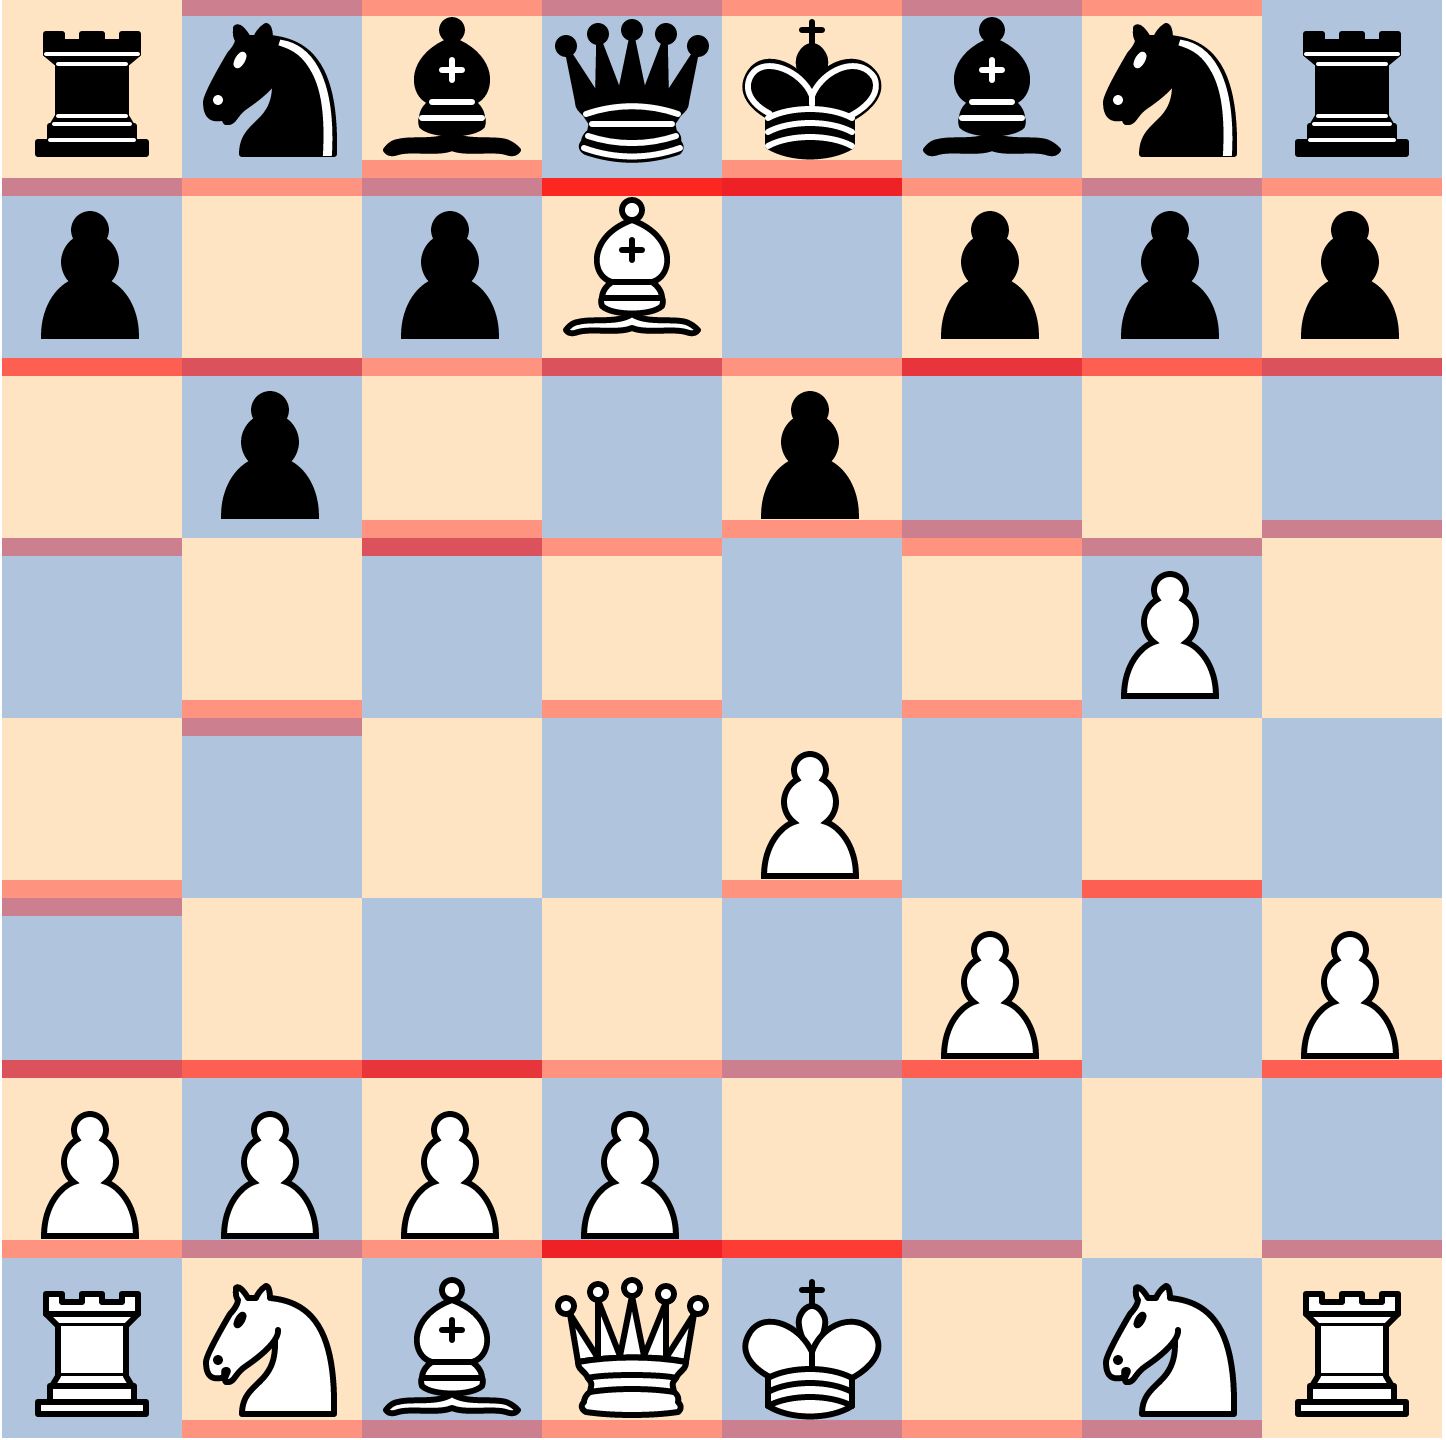
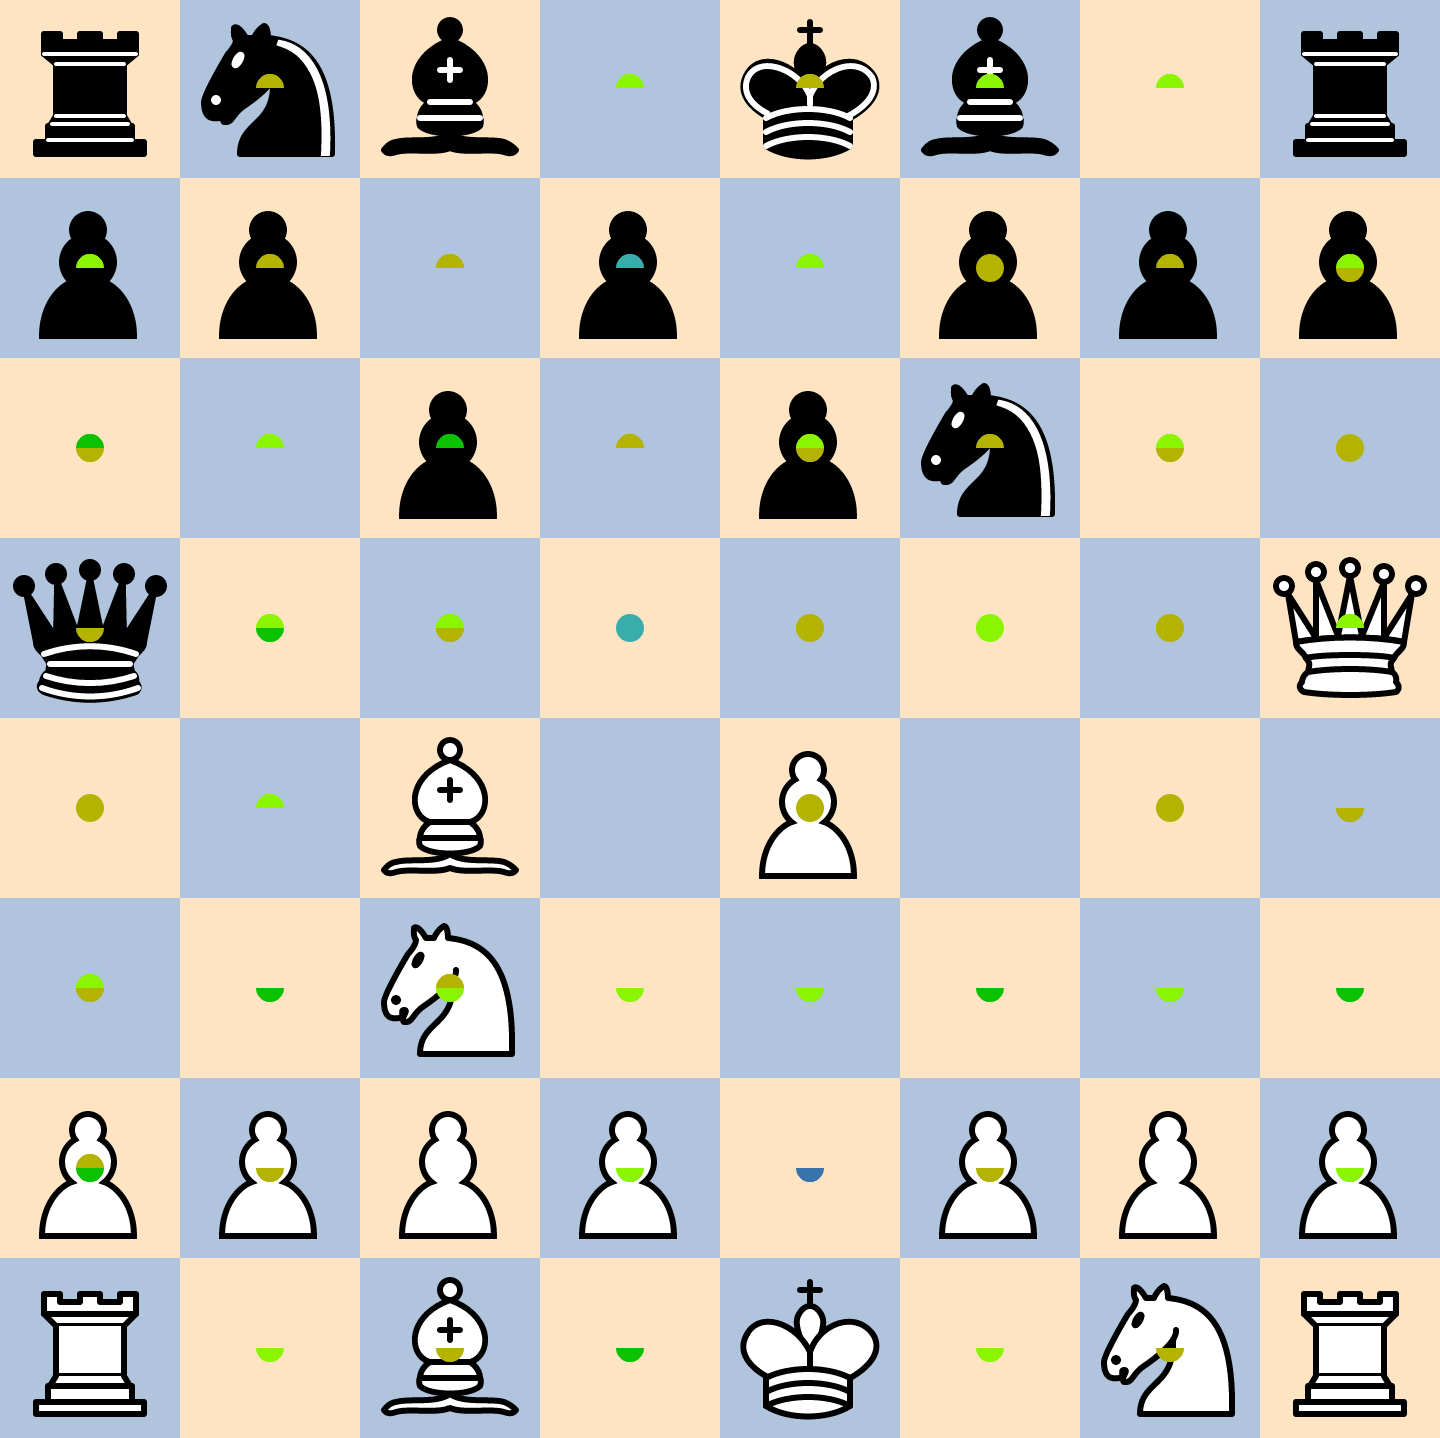
keeping track of attackers in js, not DOM, and modified attacker notation to be a dot in the center of a square

diff --git a/public/js/board.js b/public/js/board.js
@@ -32,49 +32,58 @@ var board = (function() {
       return $(selector);
     };
 
-    that.$attacked_squares = function() {
-      return $(".attacker[data-square=" + this.pgn_code() + "]")
-    }
-
+    var attacking = [];
     // mark all squares attacked by the piece in that square
-    that.mark_attacked_squares = function() {
-      this.$attacked_squares().remove();
-      var my_pgn = this.pgn_code();
+    that.mark_attacking = function() {
+      var now_attacking = (piece && piece.attacks()) || [];
+      var me = this;
+      _(_.difference(now_attacking, attacking)).forEach(function(sq) { sq.add_attacker(me) });
+      _(_.difference(attacking, now_attacking)).forEach(function(sq) { sq.remove_attacker(me) });
+      attacking = now_attacking;
+    };
+
+    // clears a square on the board, removing any pieces and recalculating attacks
+    that.clear = function() {
       if(piece) {
-        _(piece.attacks()).forEach(function(sq) {
-          sq.$get().append('<div class="attacker" ' + 
-                           'data-square="' + my_pgn + '"' +
-                           'data-piece="' + piece.pgn_code() + '"' +
-                           'data-color="' + piece.color() + '"></div>');
+        that.$get().children("img").remove();
+        piece = null;
+
+        that.mark_attacking();
+        
+        // if we're now blocking attacks, mark that
+        _(attackers).forEach(function(a) {
+          a.mark_attacking();
         });
       }
     };
 
-    // recalculate all of the attack squares for everything previously attacking
-    // "that" square
-    var recalculate_attackers = function() {
-      _(that.$get().children(".attacker")).forEach( function($square) {
-        var square_pgn = $($square).data().square;
-        board.get(square_pgn).mark_attacked_squares();
-      });
-    };
-
-    that.clear = function() {
-      if(piece) {
-        this.$get().children("img").remove();
-        piece = null;
-
-        this.$attacked_squares().remove();
-        recalculate_attackers();
-      }
-    };
-
-    // remove a piece from the board, returning it.  Recalculate all the attacks
-    // that were affected by removing the piece as well.
+    // remove a piece from the board, returning it and marking it as held.
+    // Recalculate all the attacks that were affected by removing the piece as
+    // well.
     that.pick_up = function() {
       held_piece = piece; // board global
       this.clear();
       return held_piece;
+    };
+
+    // Place a piece on the board, recalculating all the attacks that affect
+    // that square
+    that.place = function(new_piece) {
+      this.clear();
+      piece = new_piece;
+
+      if (piece) {
+        piece.place(this);
+        this.$get().append("<img src=\"" + piece.image_url() + "\">");
+        this.mark_attacking();
+
+        // if we're now blocking attacks, mark that
+        _(attackers).forEach(function(a) {
+          a.mark_attacking();
+        });
+
+        bind_piece_callbacks.apply(this);
+      }
     };
 
     var bind_piece_callbacks = function() {
@@ -86,7 +95,7 @@ var board = (function() {
         , my_piece = piece
         , my_place = function(sq) {
             $('.square.valid-move').removeClass('valid-move');
-            $('.square').off();
+            $('.square').off('mouseup');
             $(document).off('mousemove');
             $('.board').off('mouseleave');
             $('#held_piece').remove();
@@ -94,18 +103,21 @@ var board = (function() {
             held_piece = null;
         };
 
-      this.$get().children("img").on('mousedown', function(e1) {
+      this.$get().on('mousedown', function(e1) {
+
+        held_piece = my_piece;
         // mark the squares you can move to
-        _(piece.moves()).forEach(function(sq) {
+        _(my_piece.moves()).forEach(function(sq) {
           sq.$get().addClass('valid-move');
         });
 
-        // pick the piece up
-        scope.pick_up.apply(scope);
-        my_board.$get().append('<img id=held_piece src="' + held_piece.image_url() + '" ' + 
+        // pick the piece up and mark it is held
+        scope.pick_up();
+
+        // keep the piece next to the mouse when you move it
+        my_board.$get().append('<img id=held_piece src="' + my_piece.image_url() + '" ' + 
           'style="left:' + e1.pageX + 'px; top:' + e1.pageY + 'px; z-index: 10;">');
 
-        // keep the piece next to the mosue when you move it
         $(document).on('mousemove', function(e) {
           $('#held_piece').css({left: e.pageX, top: e.pageY })
         });
@@ -125,24 +137,54 @@ var board = (function() {
         $('.square:not(.valid-move)').on('mouseup', function() {
           my_place(orig_square);
         });
+
+        // we can no longer lift up this piece on this square...
+        $(this).off('mousedown');
       });
     }
 
-    // Place a piece on the board, recalculating all the attacks that affect
-    // that square
-    that.place = function(new_piece) {
-      this.clear();
-      piece = new_piece;
+    var attackers = {};
+    that.add_attacker = function(square) {
+      attackers[square.pgn_code()] = square;
+      display_attackers();
+    }
 
-      if (piece) {
-        piece.place(this);
-        this.$get().append("<img src=\"" + piece.image_url() + "\">");
-        recalculate_attackers();
-        this.mark_attacked_squares();
+    that.remove_attacker = function(square) {
+      delete attackers[square.pgn_code()];
+      display_attackers();
+    }
 
-        bind_piece_callbacks.apply(this);
-      }
-    };
+    var display_attackers = function() {
+      var colors = [ 'transparent'
+                   , 'hsla(60, 100%,35%,1)'
+                   , 'hsla(86,100%,48%,1)'
+                   , 'hsla(116,100%,38%,1)'
+                   , 'hsla(180,50%,45%,1)'
+                   , 'hsla(210,50%,45%,1)'
+                   , 'hsla(240,50%,45%,1)'
+                   , 'hsla(270,50%,45%,1)'
+                   , 'hsla(300,50%,45%,1)'
+                   , 'hsla(330,50%,45%,1)'
+                   , 'hsla(0,50%,45%,1)' ]
+      var num_dark = 0, num_light = 0;
+      _.forEach(attackers, function (a) {
+        if (a.piece().color() == board.LIGHT) {
+          num_light += 1;
+        }
+        else {
+          num_dark += 1;
+        }
+      });
+
+      var col_light = (num_light >= colors.length) ? _.last(colors) : colors[num_light]
+        , col_dark  = (num_dark >= colors.length)  ? _.last(colors) : colors[num_dark];
+
+      var $attackers = that.$get().children('.attackers')
+      $attackers.css('border-top-color', col_dark);
+      $attackers.css('border-right-color', col_dark);
+      $attackers.css('border-bottom-color', col_light);
+      $attackers.css('border-left-color', col_light);
+    }
 
     return that;
   };

diff --git a/public/css/pieces.css b/public/css/pieces.css
@@ -18,8 +18,8 @@
   font-size: 0;
 }
 .square { 
+  opacity 0.93;
   display: inline-block;
-  z-index -1;
   position: relative;
   height: 12.5%;
   width: 12.5%;
@@ -31,34 +31,44 @@
   -moz-user-select: none; /* Firefox */
   -ms-user-select: none; /* IE10+ */
 
-  /* Rules below not implemented in browsers yet */
+  -webkit-user-select: none;
+  -moz-user-select: none;
+  -ms-user-select: none;
   -o-user-select: none;
   user-select: none;
 }
 
-.square .attacker {
+.square .attackers {
   z-index: 2;
+  left: 50%;
+  top: 50%;
   position: absolute;
-  width: 100%;
-  height: 10%;
-  background-color: red;
-  opacity: 0.35;
-   
-  -webkit-user-select: none; /* Chrome/Safari */        
-  -moz-user-select: none; /* Firefox */
-  -ms-user-select: none; /* IE10+ */
+  width: 0;
+  height: 0;
+  border-color: transparent;
+  border-width: 8px;
+  margin: -8px 0 0 -8px;
+  border-style: solid;
+  opacity: 1;
 
-  /* Rules below not implemented in browsers yet */
+  transform: rotate(-45deg);
+
+  -webkit-border-radius: 8px;
+  -moz-border-radius: 8px;
+  border-radius: 8px;
+
+  -webkit-user-select: none;
+  -moz-user-select: none;
+  -ms-user-select: none;
   -o-user-select: none;
   user-select: none;
-}
 
-.square .attacker[data-color="l"] {
-  top: 90%;
+  pointer-events: none;
 }
 
 .square img {
-  z-index: 3;
+  pointer-events: none;
+  z-index: 1;
   position: absolute;
   width: 100%;
   height: 100%;

diff --git a/README.md b/README.md
@@ -54,6 +54,7 @@ square's also have methods with the logic for moving pieces.  These are the only
 Roughly prioritized list
 
 * Make prettier/more functional markers for which pieces are attacking which squares
+  * refactor out code/css for marking attacked squares, so that different methods can be plugged in at will
 * Add pgn notation parser + loader
 * When you are moving a piece, updated the attacked squares as if you've moved it to the square you're hovering over
 * Add board flip animations
